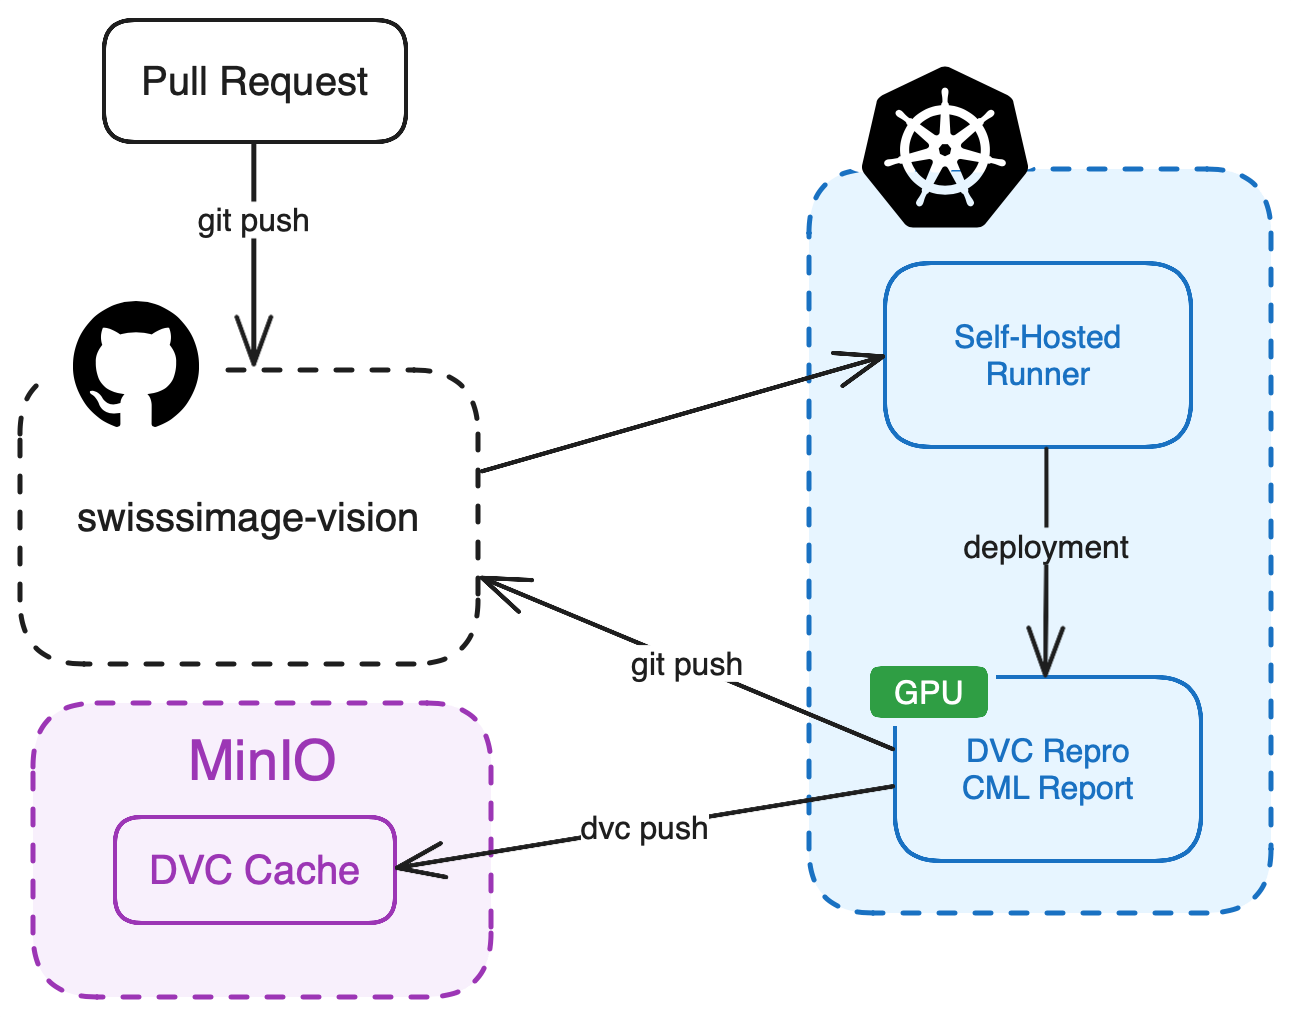
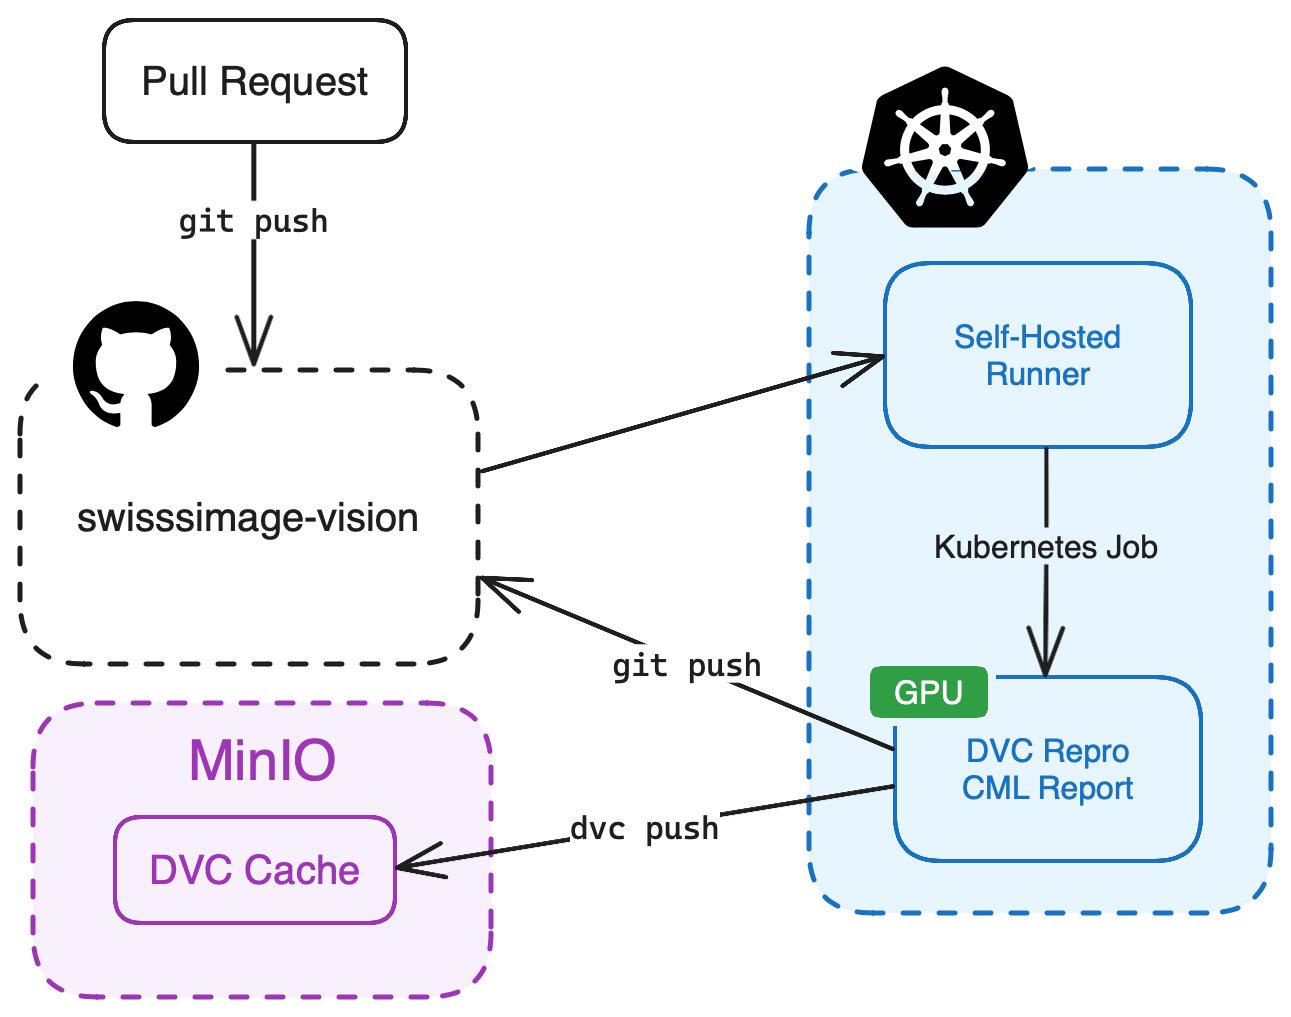
Document infrastructure

diff --git a/docs/infrastructure.md b/docs/infrastructure.md
@@ -1,5 +1,89 @@
 # Infrastructure
 
-## Development workflow
+- [Overview](#overview)
+- [Development Workflow](#development-workflow)
+- [Action Workflows](#action-workflows)
+- [Reference](#reference)
+  - [Configuration](#configuration)
+    - [Access](#access)
+    - [Branch protection rules](#branch-protection-rules)
+    - [Repository Secrets](#repository-secrets)
+    - [Self-hosted GitHub Runner](#self-hosted-github-runner)
+
+## Overview
+
+This guide explains the infrastructure used in the repository and how to configure it.
+
+## Development Workflow
 
 <img src="../media/infra.png" width="650" />
+
+1. The developer pushes code into an active pull request.
+2. The GitHub Action workflow is triggered.
+3. The self-hosted GitHub runner creates a Kubernetes job with CML
+4. The job:
+   1. Runs the DVC pipeline and reports the results back to the pull request
+   2. Pushes the results to the DVC remote storage
+   3. Pushes the updated DVC lock file to the repository
+5. The developer reviews the results and merges the pull request.
+
+## Action Workflows
+
+The GitHub Action workflows are defined in the `.github/workflows` directory.
+
+The workflow `mlops.yaml` is triggered when a pull request is opened or updated. The workflow runs the following steps:
+
+- Create a Kubernetes job with CML
+- Run `dvc repro` and `cml comment` (reporting)
+
+## Reference
+
+### Configuration
+
+#### Access
+
+Make sure to configure the repository access settings to restrict access to the repository to only the necessary users.
+
+#### Branch protection rules
+
+In your repository, go to `Settings` -> `Branches`. Add `main` branch protection rules to the repository settings. The rules should include:
+- Check "Require a pull request before merging"
+- Uncheck "Allow force pushes"
+- Uncheck "Allow deletions"
+
+This ensures that all changes are reviewed and pass the CI/CD pipeline before being merged into the main branch.
+
+This also prevents from configuring the CI/CD pipeline to run on the main branch, which can cause the pipeline twice when merging a pull request.
+
+#### Repository Secrets
+
+In order to run the workflow, you need to configure the repository secrets. The following secrets are required:
+
+`AWS_ACCESS_KEY_ID`
+
+The AWS access key ID used by DVC.
+
+`AWS_S3_ENDPOINT`
+
+The AWS S3 endpoint used by DVC.
+
+`AWS_SECRET_ACCESS_KEY`
+
+The AWS secret access key used by DVC.
+
+`KUBECONFIG`
+
+The Kubernetes configuration file used by CML.
+
+> [!NOTE]
+> Make sure to set the Kubernetes namespace to yours in the context of the `KUBECONFIG` file.
+
+`PAT`
+
+The GitHub personal access token used by CML. See [CML Documentation](https://cml.dev/doc/self-hosted-runners#personal-access-token) to create a personal access token.
+
+#### Self-hosted GitHub Runner
+
+We use a self-hosted GitHub runner to execute the GitHub Action workflows on a on-premises Kubernetes cluster. The runner listens for jobs from GitHub Actions and creates Kubernetes jobs to execute the workflows using CML.
+
+To see more information about configuring a self-hosted GitHub runner, see the [../infra/github-runner/README.md](../infra/github-runner/README.md) file.

diff --git a/README.md b/README.md
@@ -1,15 +1,15 @@
 # SwissImage Vision
 
-- [TODO](#todo)
+- [Overview](#overview)
+- [Work in Progress](#work-in-progress)
   - [Label Studio](#label-studio)
   - [CML](#cml)
   - [Model](#model)
-- [About](#about)
 - [Installation](#installation)
+  - [Setup Conda Environment](#setup-conda-environment)
   - [Setup DVC](#setup-dvc)
 - [Reproduce the Experiment](#reproduce-the-experiment)
 - [Serving the Model](#serving-the-model)
-  - [Gradio Demo](#gradio-demo)
   - [BentoML API](#bentoml-api)
 - [Integrations](#integrations)
   - [DVC](#dvc)
@@ -18,34 +18,30 @@
   - [Data](#data)
   - [Projects](#projects)
 
-![Demo](media/demo.png)
+## Overview
 
-## TODO
+The goal of this project is to detect solar panels in aerial images (SwissImage 0.1m) using deep learning.
+
+MLOps practices are used to manage the project, including DVC for data versioning, Label Studio for data labeling, and BentoML for model serving. This allows for reproducibility, collaboration and scalability of the project.
+
+## Work in Progress
 
 ### Label Studio
 
 - [ ] Documentation for Label Studio
+
   - [ ] Installation locally
   - [ ] Installation on Kubernetes
   - [ ] Configuration
 
 - [ ] Deploy label studio instance
+
   - [ ] Add label studio configuration
 
 - [ ] (Deploy BentoML API to Kubernetes cluster)
 - [ ] (Deploy label studio model backend)
 
 ### CML
-
-- [ ] Documentation for CML
-  - [ ] PR preview
-  - [ ] GitHub repository setup (prevent fork to run actions)
-  - [ ] (Diagram)
-
-- [x] CML training on Kubernetes cluster
-  - [x] Self hosted runner
-
-- [x] PR and main branch CI/CD
 
 - [ ] CML reporting
   - [ ] Better model evaluation metrics and plots
@@ -56,15 +52,20 @@
 - [ ] Detection yaml job on whole dataset
 - [ ] Label more data
 
-## About
-
-The goal of this project is to detect solar panels in aerial images (SwissImage 0.1m) using deep learning.
-
-MLOps practices are used to manage the project, including DVC for data versioning, Label Studio for data labeling, and BentoML for model serving. This allows for reproducibility, collaboration and scalability of the project.
-
 ## Installation
 
-If you don't have Conda installed, you can run the following script to install it:
+Clone the repository:
+
+```bash
+git clone https://github.com/heigvd-software-engineering/swissimage-vision.git
+cd swissimage-vision
+```
+
+### Setup Conda Environment
+
+Installing MiniConda is optional but is recommended in environments where you do not have sudo access to install system packages. You can skip this step
+
+To install MiniConda, you can run the following script to install it:
 
 ```bash
 ./scripts/install_conda.sh
@@ -111,14 +112,14 @@ tensorboard --logdir lightning_logs
 ```
 
 ## Serving the Model
-
+<!-- DEPRECATED
 ### Gradio Demo
 
 Run the following command to start the Gradio demo interface:
 
 ```bash
 python3 src/demo.py
-```
+``` -->
 
 ### BentoML API
 

diff --git a/infra/github-runner/README.md b/infra/github-runner/README.md
@@ -1,38 +1,72 @@
 # Self-hosted GitHub Runner
 
+- [Overview](#overview)
 - [Configuring the Repository](#configuring-the-repository)
 - [Deploy GitHub Runner](#deploy-github-runner)
+- [Action Workflow Configuration](#action-workflow-configuration)
+  - [Node affinity](#node-affinity)
 
+## Overview
+
+This guide explains how to deploy a self-hosted GitHub runner to a Kubernetes cluster. The runner is used to execute the GitHub Action workflows defined in the repository.
 
 ## Configuring the Repository
 
-TODO: Not documented yet.
+> [!CAUTION]
+> Creating a self-hosted runner allows other users to execute code on your infrastructure. Make sure to secure your runner and restrict access to the repository.
+
+1. Disable running workflows from fork pull requests.
+
+   In the repository, go to `Settings -> Actions` and disable `Fork pull request workflows`.
+
+2. Create self host runner on the GitHub repository. See [GitHub documentation](https://docs.github.com/en/actions/hosting-your-own-runners/managing-self-hosted-runners/adding-self-hosted-runners) for more information.
 
 ## Deploy GitHub Runner
 
-1. Create self host runner on the GitHub repository.
-
-2. Deploy runner to Kubernetes cluster:
+1. Deploy runner to Kubernetes cluster:
 
    ```bash
    kubectl apply -f infra/github-runner/runner.yaml
    ```
 
-3. Configure runner with the GitHub repository:
+2. Configure runner with the GitHub repository:
 
    ```bash
-   kubectl exec -it  github-runner -- bash
+   # Connect to the runner pod
+   kubectl exec -it github-runner -- bash
    ```
 
-   Inside the container, run the following commands:
-
    ```bash
+   # Run the configuration script
    cd actions-runner
    ./config.sh --token <your-token>
    ```
 
+   > [!NOTE]
    > You might be prompted to install some extra dependencies. Follow the instructions and re-run the configure script.
 
+3. Start the runner with the following command:
+
    ```bash
-   nohup ./run.sh &
+   nohup ./run.sh &> runner.log &
    ```
+
+   This will start the runner in the background. You can check the logs with the following command:
+
+   ```bash
+   tail -f runner.log
+   ```
+
+## Action Workflow Configuration
+
+### Node affinity
+
+In the `.github/workflows/mlops.yaml` file, we have defined a node affinity to run the CML job on a node with GPU. You might need to adjust the node affinity based on your cluster configuration.
+
+```bash
+cml runner \
+   --labels="cml-runner" \
+   --cloud="kubernetes" \
+   --cloud-kubernetes-node-selector="<your-selector>" \
+   --single
+```

diff --git a/docs/dvc.md b/docs/dvc.md
@@ -1,6 +1,6 @@
 # DVC Integration
 
-- [About](#about)
+- [Overview](#overview)
 - [Stages](#stages)
   - [Prepare](#prepare)
   - [Preprocess](#preprocess)
@@ -11,7 +11,7 @@
 - [Directed Acyclic Graph (DAG)](#directed-acyclic-graph-dag)
 - [Data Flow](#data-flow)
 
-## About
+## Overview
 
 The full pipeline is implemented using DVC and can be found in `dvc.yaml`.
 
@@ -30,7 +30,7 @@ In this stage we:
 
 We upload the tiles and annotations to S3 to avoid storing them in DVC cache. This is because it would not be efficient to store large amounts of data in DVC cache. Instead, we store the data in S3 and pull it when needed. See more in the <a href="#train">Train</a> stage.
 
-> **Note**
+> [!NOTE]
 > As this stage does not create any outputs (we are saving the dataset to a S3 bucket), we create a dummy output (`data/prepared/depends.txt`) to make other stages depend on this one. See more about this [here](https://github.com/iterative/dvc/issues/8881).
 
 ### Preprocess
